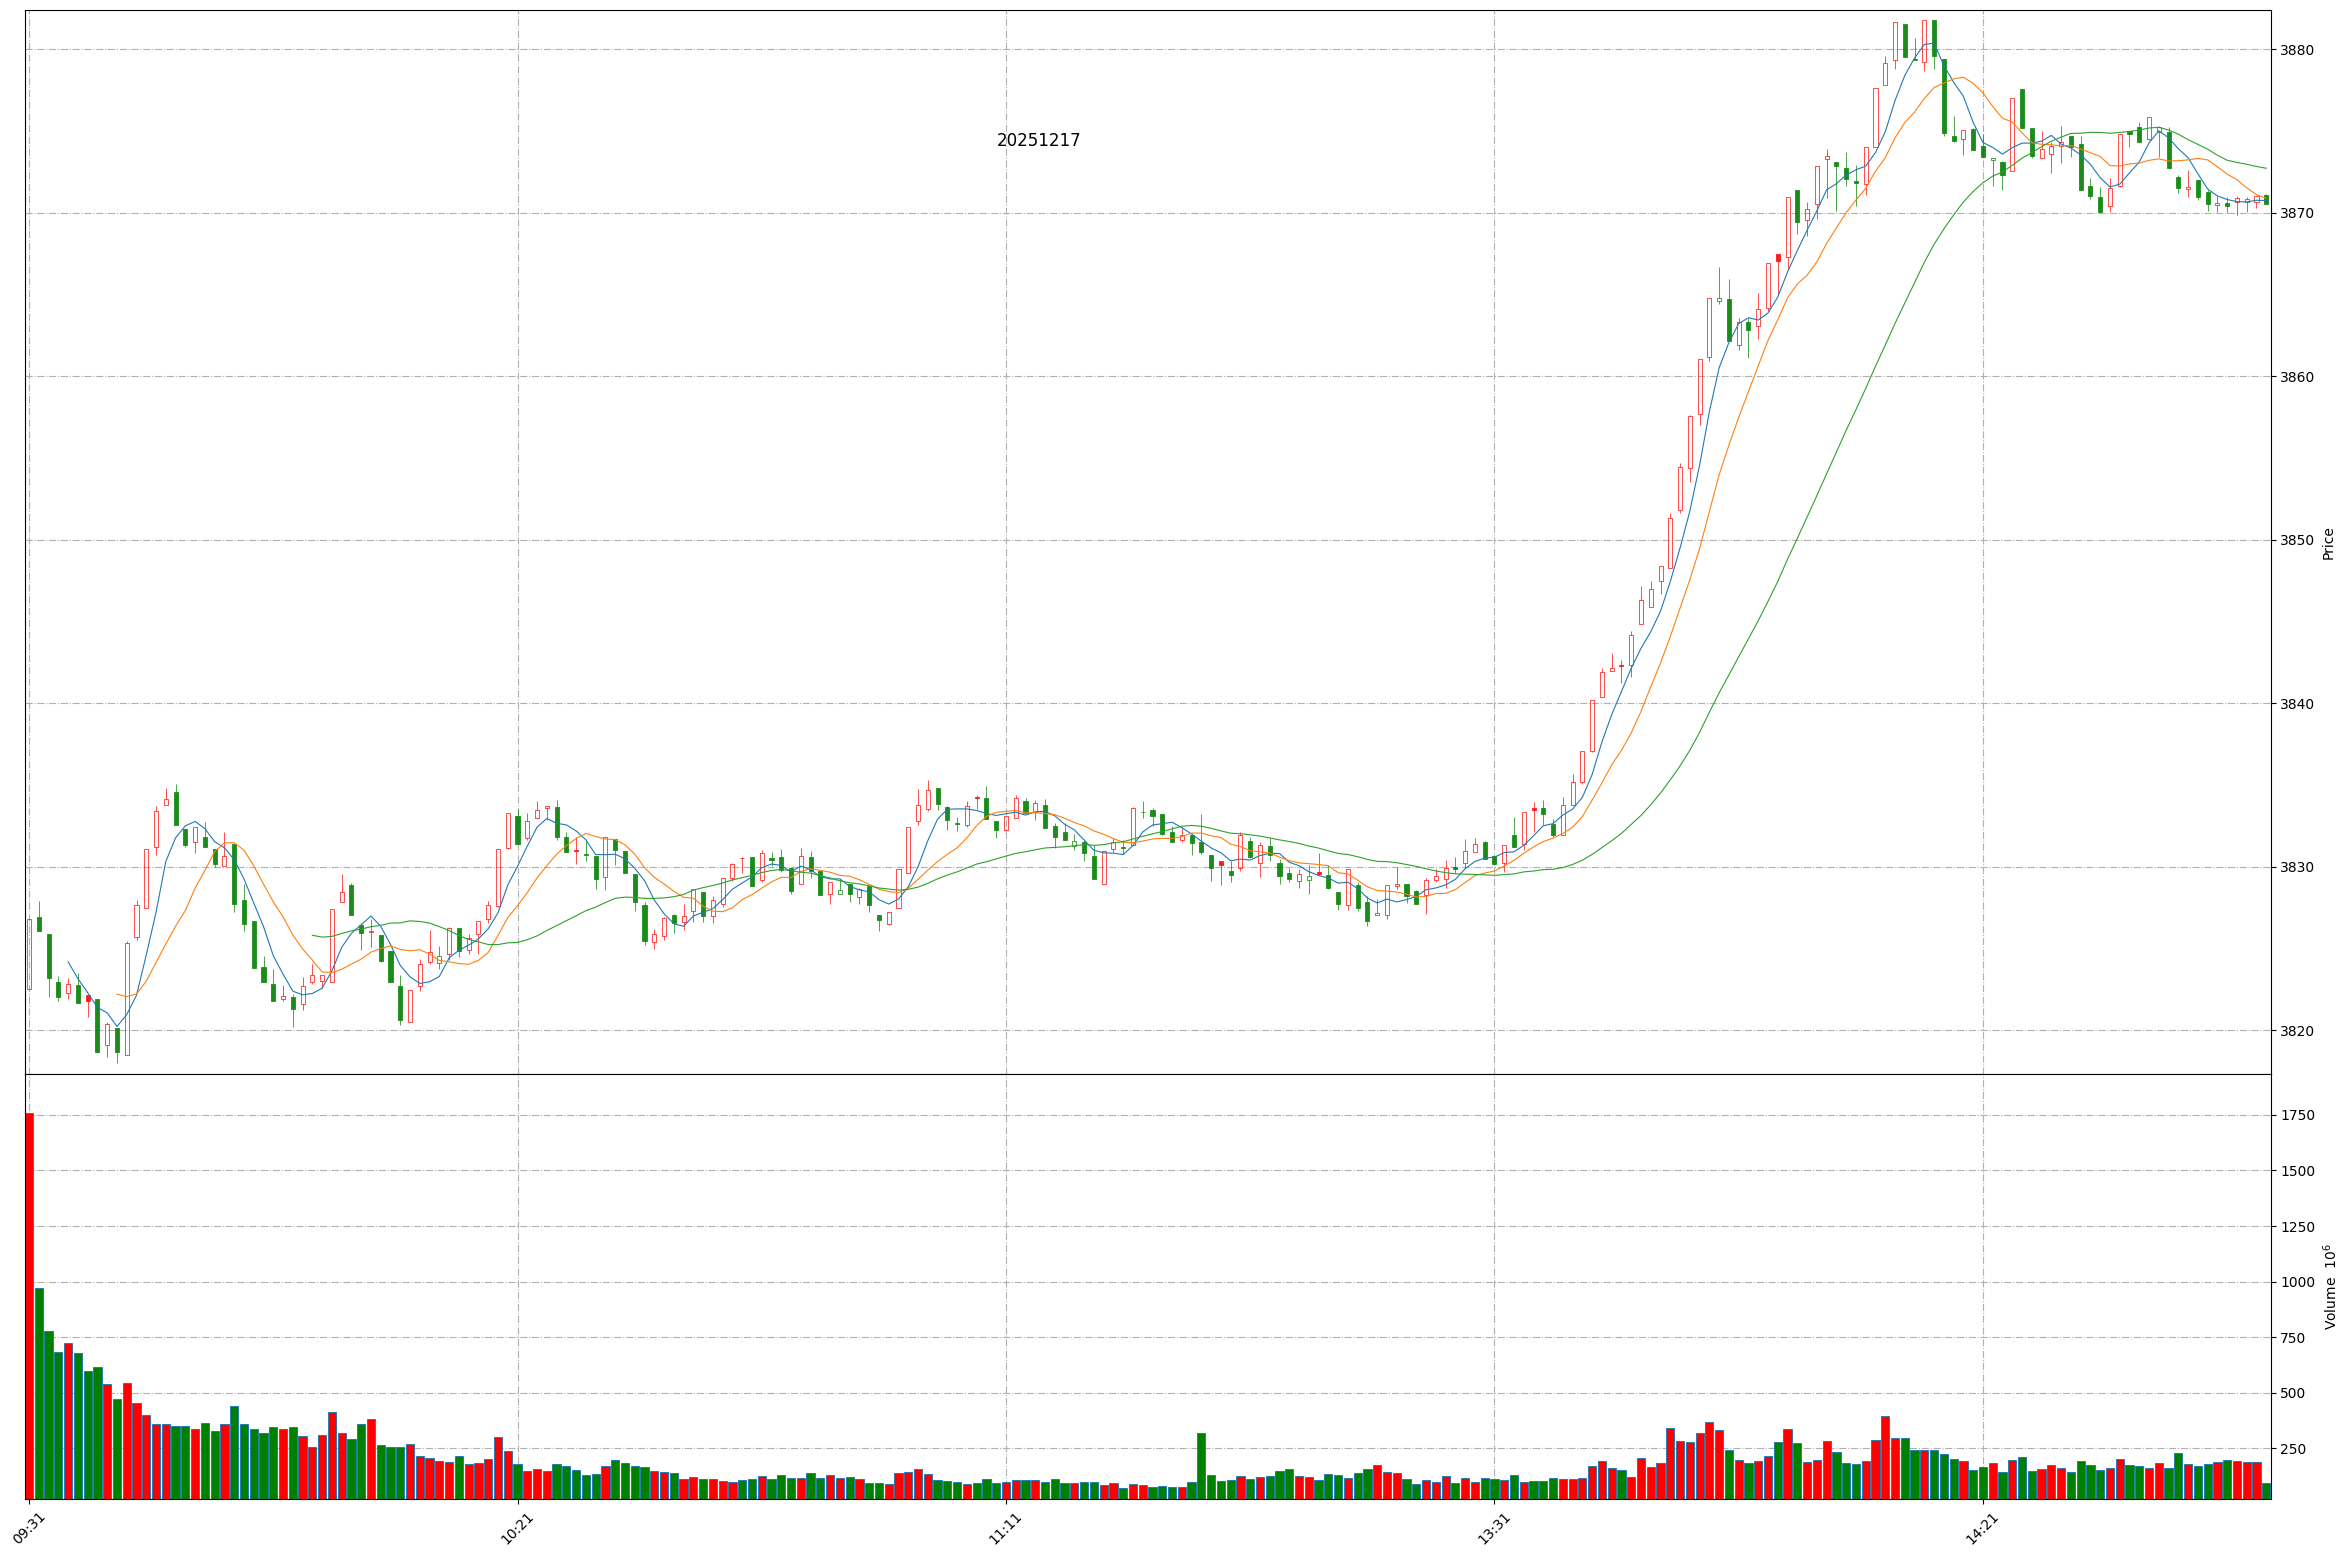
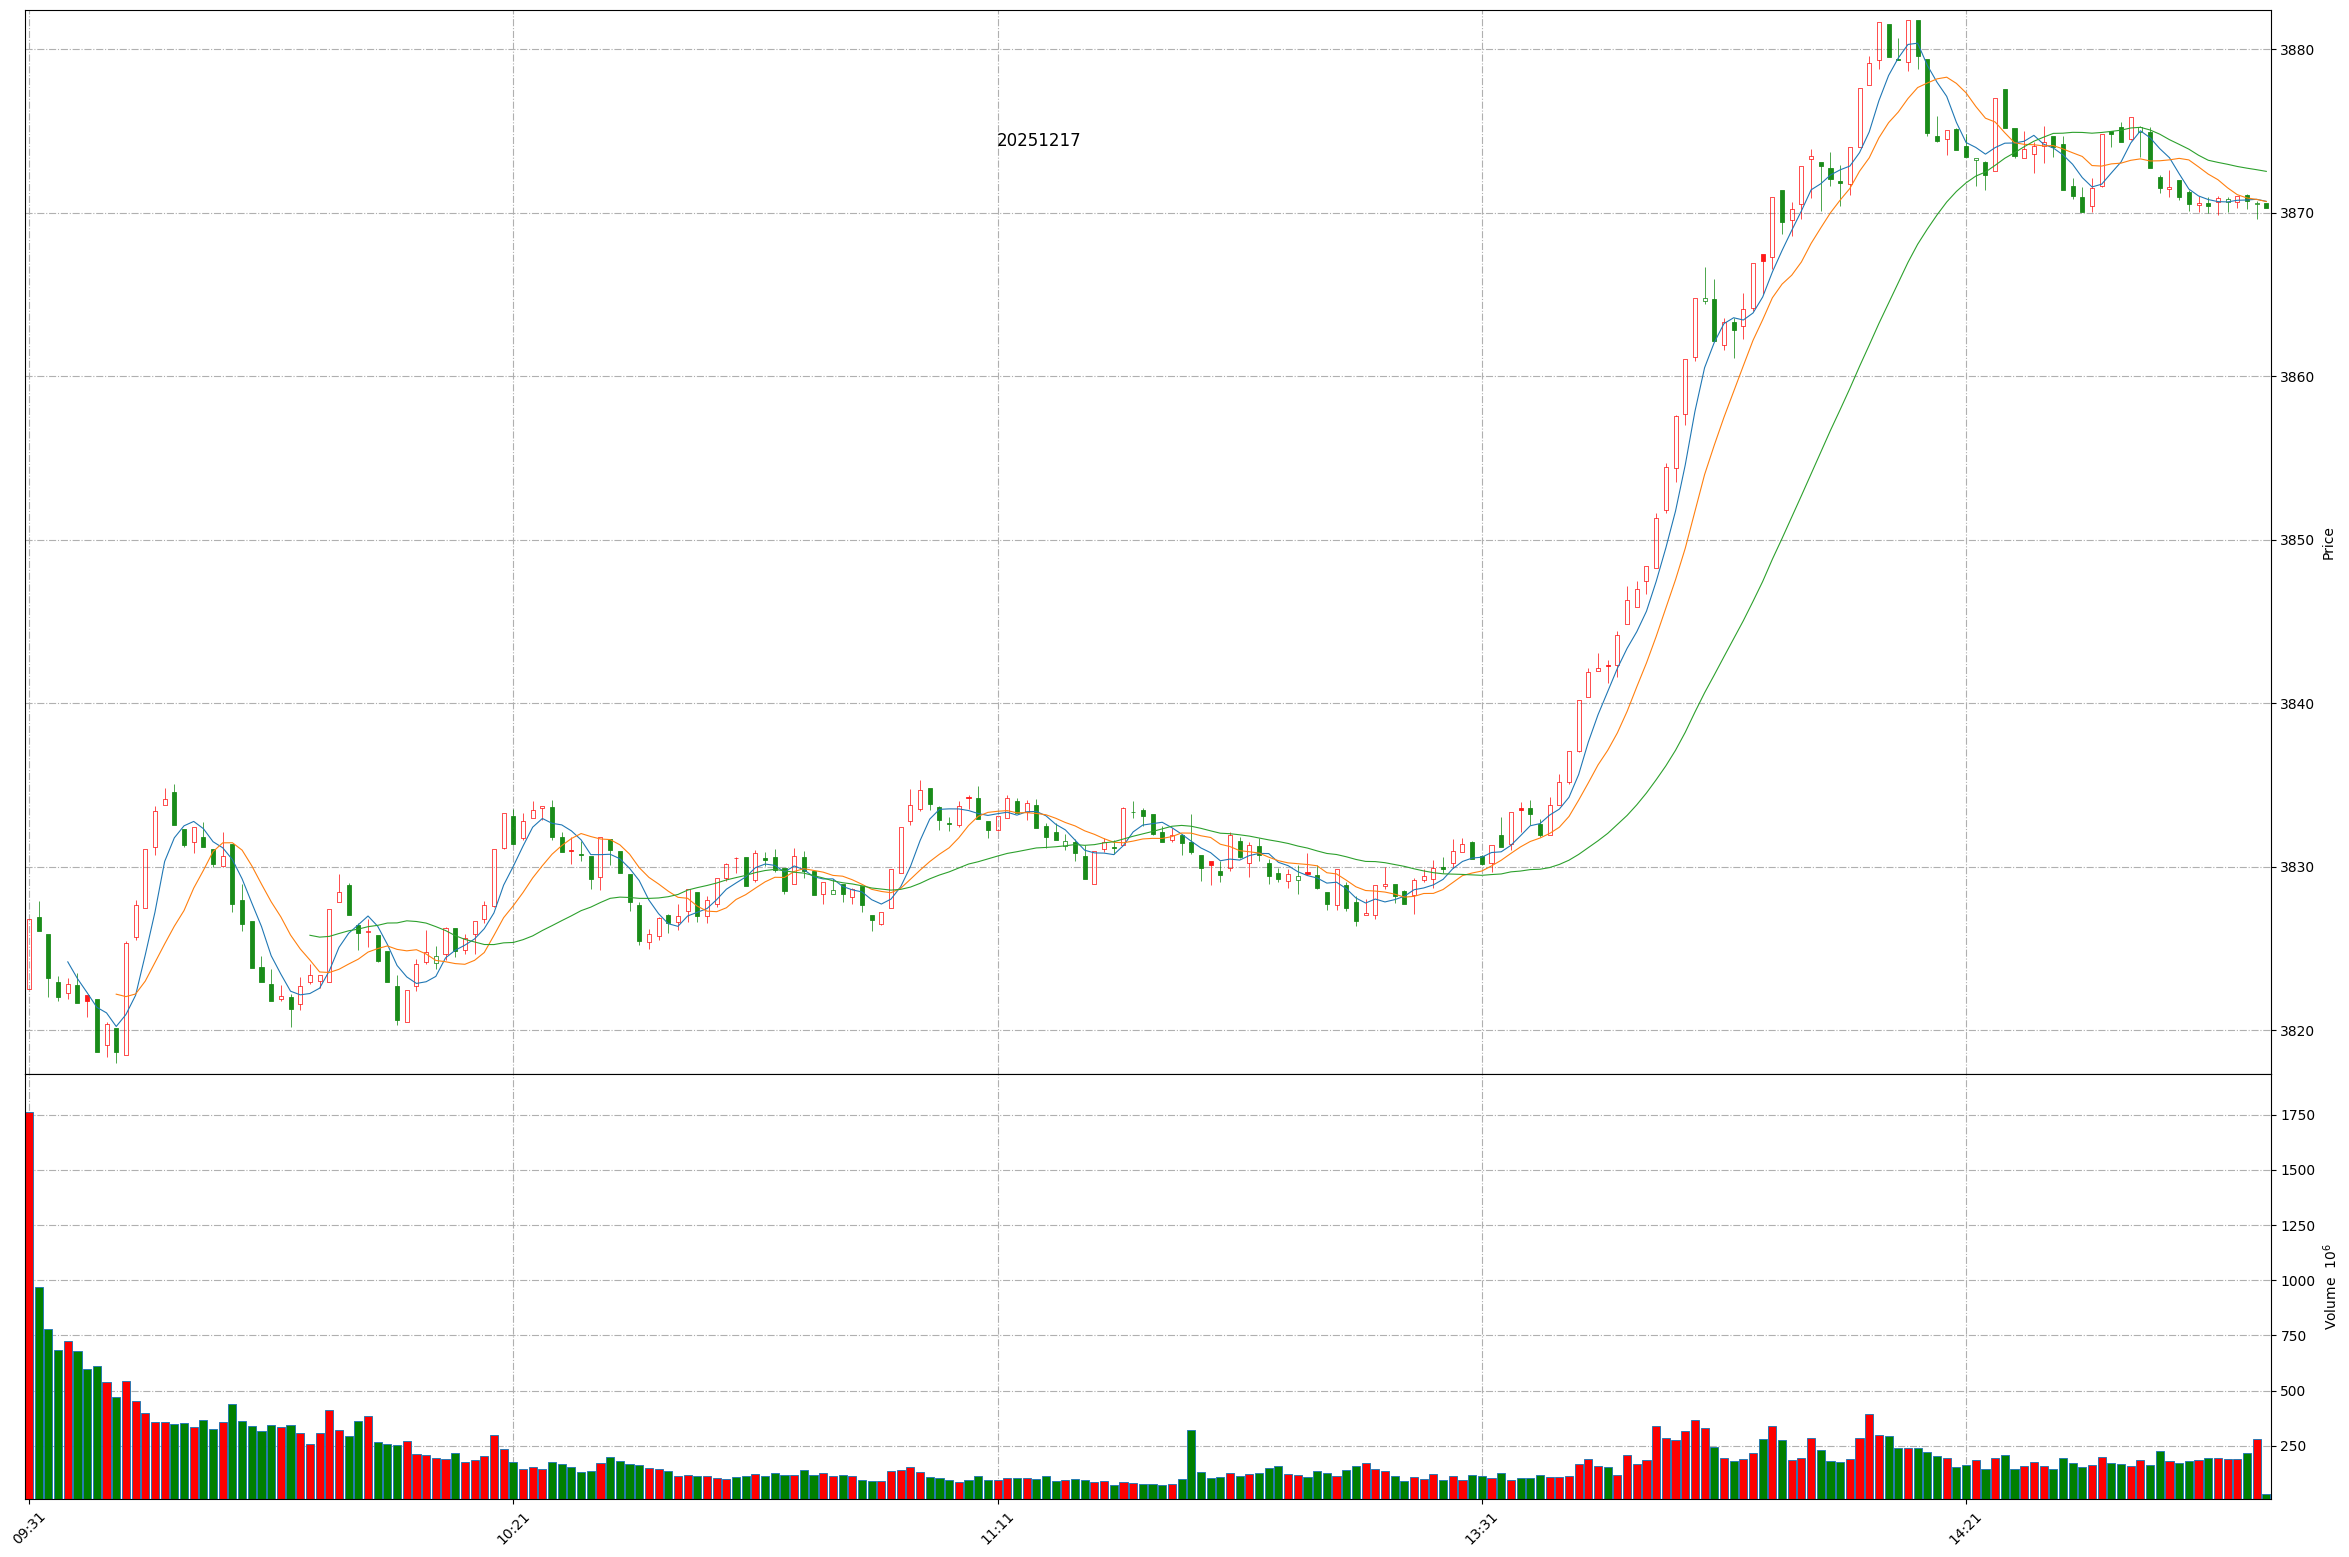
Github action update at 2025-12-17 14:51:25.

diff --git a/README.md b/README.md
@@ -1,11 +1,11 @@
 
 # Daily-A-share-market-quotes 每日 A 股指数（5min 更新）- 20251217
 
-### 上证指数 20251217 14:49
+### 上证指数 20251217 14:51
 ![](./fig/2025/12/20251217-sh000001.png)
 
-### 深证成指 20251217 14:49
+### 深证成指 20251217 14:51
 ![](./fig/2025/12/20251217-sz399001.png)
 
-### 北证50 20251217 14:49
+### 北证50 20251217 14:51
 ![](./fig/2025/12/20251217-bj899050.png)
